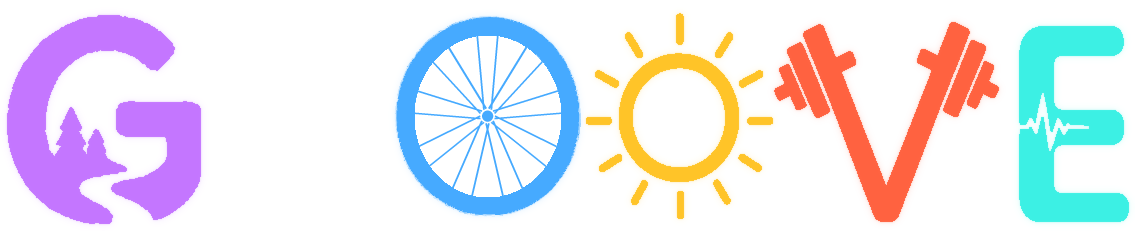
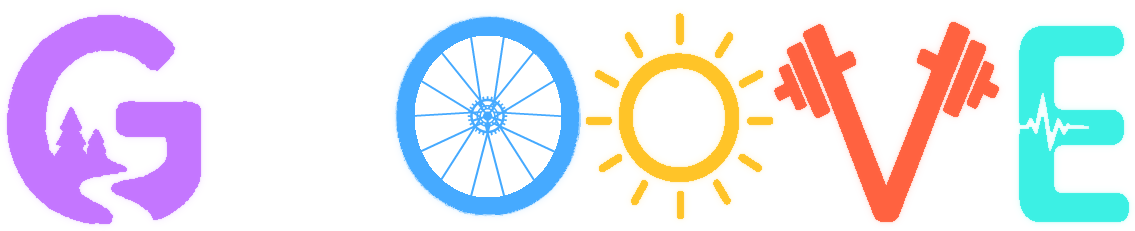
Bike wheel: 14 evenly spaced spokes and a small chainring + cassette at the hub
Claude-Session: https://claude.ai/code/session_01W6PERwBvGY6kxnwqFJiESo

Changed region(s): [[0.37, 0.1515, 0.4934, 0.8182]]

diff --git a/scripts/redraw-wheel.py b/scripts/redraw-wheel.py
@@ -15,11 +15,13 @@ OUT_RX, OUT_RY = 89.5, 97.0
 RIM = 15.5                    # rim thickness
 IN_RX, IN_RY = OUT_RX - RIM, OUT_RY - RIM
 NAVY = (28, 62, 84)
-SPOKES = 18                   # fewer, so it stays clean at logo size (a real wheel has 32-36)
-FLANGE = 7.5                  # spokes start on a small circle around the hub
-CROSS_DEG = 22                # how far around the rim each spoke lands: a gentle lean so spokes cross, like a laced wheel
-SPOKE_W = 1.7
-HUB_R = 5.5
+SPOKES = 14                   # few enough to stay clean at logo size (a real wheel has 32-36)
+FLANGE = 8.0                  # spokes start on a small circle around the hub
+CROSS_DEG = 30                # how far around the hub each spoke leans: spokes land evenly spaced on the rim and cross near the hub, like a laced wheel
+SPOKE_W = 1.9
+HUB_R = 4.5
+CHAINRING_R = 16.0
+CHAINRING_TEETH = 28
 SS = 4
 
 def redraw(path):
@@ -39,12 +41,25 @@ def redraw(path):
     d = ImageDraw.Draw(layer)
     ox, oy = CX - box[0], CY - box[1]
     for i in range(SPOKES):
-        phi = 2 * math.pi * i / SPOKES
+        theta = 2 * math.pi * i / SPOKES                      # evenly spaced where the spoke meets the rim
         sgn = 1 if i % 2 == 0 else -1                        # alternate leading and trailing spokes
-        theta = phi + sgn * math.radians(CROSS_DEG)
+        phi = theta - sgn * math.radians(CROSS_DEG)           # where the spoke leaves the hub
         x0, y0 = ox + FLANGE * math.cos(phi), oy + FLANGE * math.sin(phi)
         x1 = ox + (IN_RX + 1.0) * math.cos(theta); y1 = oy + (IN_RY + 1.0) * math.sin(theta)
         d.line([(x0 * SS, y0 * SS), (x1 * SS, y1 * SS)], fill=255, width=int(round(SPOKE_W * SS)))
+    # chainring (big toothed ring with a 5-arm crank spider) and cassette (small stacked cogs) at the centre
+    def ring(r, w):
+        d.ellipse([(ox - r - w / 2) * SS, (oy - r - w / 2) * SS, (ox + r + w / 2) * SS, (oy + r + w / 2) * SS], outline=255, width=int(round(w * SS)))
+    ring(CHAINRING_R, 2.4)
+    for k in range(CHAINRING_TEETH):
+        a_ = 2 * math.pi * k / CHAINRING_TEETH
+        d.line([((ox + (CHAINRING_R + 1.0) * math.cos(a_)) * SS, (oy + (CHAINRING_R + 1.0) * math.sin(a_)) * SS),
+                ((ox + (CHAINRING_R + 3.6) * math.cos(a_)) * SS, (oy + (CHAINRING_R + 3.6) * math.sin(a_)) * SS)], fill=255, width=int(round(1.7 * SS)))
+    for k in range(5):
+        a_ = math.radians(18 + 72 * k)
+        d.line([((ox + HUB_R * math.cos(a_)) * SS, (oy + HUB_R * math.sin(a_)) * SS),
+                ((ox + CHAINRING_R * math.cos(a_)) * SS, (oy + CHAINRING_R * math.sin(a_)) * SS)], fill=255, width=int(round(2.3 * SS)))
+    ring(10.0, 1.6); ring(7.0, 1.6)
     d.ellipse([(ox - HUB_R) * SS, (oy - HUB_R) * SS, (ox + HUB_R) * SS, (oy + HUB_R) * SS], fill=255)
     cover = np.array(layer.resize((bw, bh), Image.BOX)).astype(float) / 255.0
     # keep the spokes inside the rim only

diff --git a/CLAUDE.md b/CLAUDE.md
@@ -70,7 +70,7 @@ A movement-coaching web app run by Greg (gpspicer2), an exercise-science profess
 - Auto-scroll: panels that open below the fold (Delete Account confirm, Account/Birdseye dropdowns, goal rows, Move history) use `lib/reveal.js` (`useRevealOnOpen`, `revealSoon`) to scroll themselves into view. Use it for any new expandable panel.
 - Sign-up screen uses teal (`SKY`) instead of plum so it never looks like sign-in (Greg asked; an exception to the "onboarding is plum" rule).
 - First visit on a phone opens on Sign up; once anyone has signed in there (`groove:returning` in localStorage) it opens on Sign in.
-- Dark mode: Account > Settings > Appearance (Auto follows the phone / Light / Dark; saved per device in localStorage `groove:theme`, applied before first paint from index.html; `src/appearance.js`). Theme tokens in `src/theme.js` are CSS variables defined in `index.css` (light and two dark blocks: system dark and forced dark; keep them identical). Never append hex digits to a token (use `color-mix`) and never hard-code hex colors. Import icons from `src/lib/icons.jsx` (not `lucide-react` directly) so `color`/`fill` props work with the variables. The logo uses neon dark versions (`wordmark-dark.png`, `wordmark-still-dark.png`, `wordmark-runner-dark.png`) generated by `scripts/make-dark-logo.py` (needs pillow, numpy, scipy); re-run it whenever the light logo art changes (the bike wheel's spokes are redrawn by `scripts/redraw-wheel.py`: 18 thin crossing spokes and a small hub (32 looked like 100 at logo size), so it reads as a bicycle not a wagon; run `crisp-logo-g.py` then `redraw-wheel.py` on the original art, then this script. And `scripts/crisp-logo-g.py` first if the G artwork was replaced (run it on the ORIGINAL art): it rebuilds the G's soft edge into a clean one and shaves ~1.6 px off the stroke so it reads as crisp as the other letters; the dark glow was also toned down so big letters aren't foggy). `Wordmark` picks them with `useDarkMode`.
+- Dark mode: Account > Settings > Appearance (Auto follows the phone / Light / Dark; saved per device in localStorage `groove:theme`, applied before first paint from index.html; `src/appearance.js`). Theme tokens in `src/theme.js` are CSS variables defined in `index.css` (light and two dark blocks: system dark and forced dark; keep them identical). Never append hex digits to a token (use `color-mix`) and never hard-code hex colors. Import icons from `src/lib/icons.jsx` (not `lucide-react` directly) so `color`/`fill` props work with the variables. The logo uses neon dark versions (`wordmark-dark.png`, `wordmark-still-dark.png`, `wordmark-runner-dark.png`) generated by `scripts/make-dark-logo.py` (needs pillow, numpy, scipy); re-run it whenever the light logo art changes (the bike wheel's spokes are redrawn by `scripts/redraw-wheel.py`: 14 thin evenly spaced crossing spokes plus a small chainring and cassette at the hub (18 and 32 spokes both looked too busy at logo size), so it reads as a bicycle not a wagon; run `crisp-logo-g.py` then `redraw-wheel.py` on the original art, then this script. And `scripts/crisp-logo-g.py` first if the G artwork was replaced (run it on the ORIGINAL art): it rebuilds the G's soft edge into a clean one and shaves ~1.6 px off the stroke so it reads as crisp as the other letters; the dark glow was also toned down so big letters aren't foggy). `Wordmark` picks them with `useDarkMode`.
 - Android: `public/manifest.webmanifest` has real 192/512 icons (`icon-android-*.png`, G centered with padding so round masks don't clip it); the viewport meta has `interactive-widget=resizes-content` so the keyboard doesn't cover bottom sheets; `#app-scroll` has `overscroll-behavior-y: contain` to stop pull-to-refresh mid-workout. Not handled: the Android back button doesn't close popups (it leaves the app).
 - Yoga counts toward both aerobic (its minutes) and flexibility (a session day), whichever list it was logged from. Barbell lifts never go below 45 lb (the bar); Log is disabled with a note until the weight is 45+.
 - Membership (Stripe, one flat monthly price): see `docs/PAYMENTS.md`. Serverless `api/billing/*` (checkout, portal, signature-verified webhook) set `profiles.membership_status`; without a membership Birdseye, Move and Journal are blurred behind a Join popup (`LockedTab`; the tour still runs first; Learn and the Movement Library stay open) only when `VITE_REQUIRE_MEMBERSHIP=true`; Greg can comp members from the coach Billing tab. Card data never touches Groove (Stripe-hosted pages). Not yet live-tested against real Stripe (needs Greg's keys).
